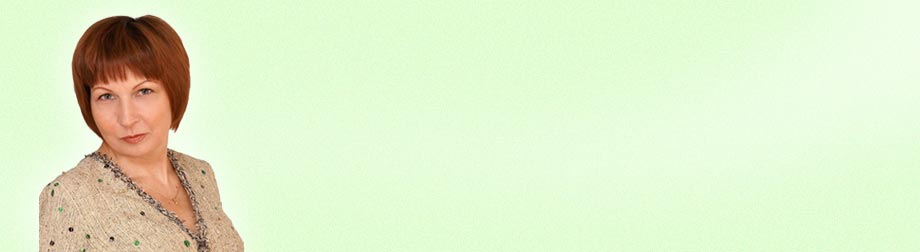
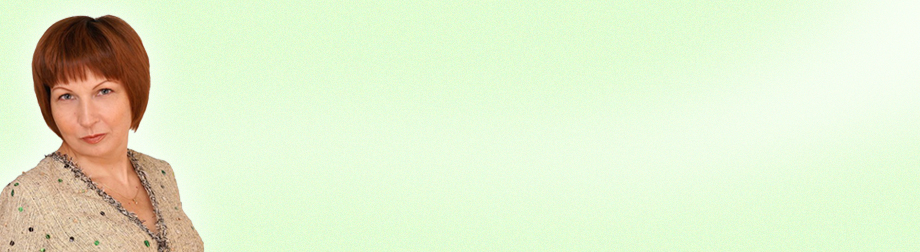
Версия с контактами снизу и переформатированным контентом

Changed region(s): [[0.0, 0.0556, 0.2739, 1.0]]

diff --git a/index.html b/index.html
@@ -7,28 +7,27 @@
     <!--[if IE]>
         <script src="http://html5shiv.googlecode.com/svn/trunk/html5.js"></script>
     <![endif]-->
-    <script type="text/javascript" src="//vk.com/js/api/openapi.js?105"></script>
+    <script type="text/javascript" src="http://vk.com/js/api/openapi.js?105"></script>
 </head>
 <body>
     <div>
         <!--Шапка-->
     <header>
+        <div id="headtext">
+            <p>Ваш персональный страховой агент</p>
+            <p id="name">Иванова Елена</p>
+        </div>
         <div>
             <img src="img/tel2.png">
-            <span>950-30-90</span>
+            <span>+7(821)950 30 90</span>
         </div>
         <div>
             <img src="img/tel1.png">
-            <span>+7(911)767-00-17</span>
+            <span>+7(911)767 00 17</span>
         </div>
         <div>
             <img src="img/mail.png">
             <a href="mailto:ivanova-elev@yandex.ru">ivanova-elev@yandex.ru</a>
-        </div>
-        <img id="reso" src="img/reso_logo.png">
-        <div id="headtext">
-            <p>Ваш личный страховой агент</p>
-            <p id="name">Иванова Елена Евгеньевна</p>
         </div>
     </header>
 
@@ -83,57 +82,63 @@
     </nav>
 
 
-    <div id="main">
+    <main>
         <h2 id="firsth2">Уважаемые дамы и господа!
             <br>
         Добро пожаловать!</h2>
-        <h3>Мы делаем все возможное, чтобы  оформление любого страхового полиса  было для Вас удобным, выгодным, простым и быстрым.        </h3>
-        <h2>На нашем сайте  Вы сможете:</h2>
-        <ul id="firstULmain">
+        <p>Во многих других странах уже давно принято, что у каждой семьи есть свой личный страховой агент, который всегда помогает в решении любых вопросов страхования, а при наступлении страхового случая оказывает сопровождение вплоть до момента выплаты страховой суммы.</p>
+        <p>Я предлагаю Вам помощь и консультацию в сфере страхования и  сделаю все возможное, чтобы  оформление любого страхового полиса  было для Вас удобным, выгодным, простым и быстрым.</p>
+        <h2>На сайте  Вы сможете:</h2>
+        <ul class="ULmain">
             <li>— Заказать расчет стоимости любого интересующего Вас полиса страхования (ОСАГО, КАСКО, Green Card, полиса страхования жизни, медицинского страхования, страхования имущества, и многих других видов страхования)</li>
             <li>— Оставить заявку на оформление страховки  (как новой, так и продление существующего полиса)</li>
             <li>— Заказать бесплатную доставку страхового полиса в любой район города в любое удобное для Вас время.            </li>
         </ul>
-        <h2>Наши преимущества:</h2>
+        <h2>Обращаясь ко мне, Вы получаете следующие преимущества:</h2>
         <ul>
-            <li>Предлагаем все виды страхования:
-                <ul>
-                    <li><span class="spgr">Автострахование:</span> ОСАГО; КАСКО; ДГО (расширение полиса ОСАГО); Green Card (Зеленая карта).</li>
-                    <li><span class="spgr">Cтрахование имущества:</span> домов, дач, квартир, недостроенных объектов.</li>
-                    <li><span class="spgr">Личное страхование:</span> страхование жизни и здоровья; ДМС;  страхование детей и школьников; страхование от несчастных случаев как в течении 24 часов, так и во время нахождения на работе; страхование на время занятий спортом и соревнований.</li>
-                    <li><span class="spgr">Туристические страховки,</span> обязательные для всех граждан, выезжающих за рубеж. В том числе для любителей  любых видов спорта, включая дайвинг и горные лыжи.</li>
-                    <li><span class="spgr">Прочие виды страхования:</span> пенсионное страхование; страхование ответственности, и др.</li>
-                    <li>Мы также предлагаем <span class="spgr">страховые услуги  для бизнеса.</span> В  том числе:
-                        <ul>
-                            <li>Страхование строительно-монтажных работ.</li>
-                            <li>Страхование гражданской ответственности при СМР.</li>
-                            <li>Страхование грузов, строительной техники.</li>
-                            <li>Страхование бизнеса, в том числе, магазинов, офисов, складов.</li>
-                            <li>Страхование имущества юридических лиц.</li>
-                            <li>Страхование железнодорожного транспорта, товаров и оборудования.</li>
-                            <li>Заключение договоров корпоративного ДМС для крупных компаний и для малого бизнеса (с численностью работающих от 2-х человек).</li>
-                        </ul>
-                    </li>
-                </ul>
-            </li>
-            <li>Работаем с юридическими и физическими лицами.</li>
-            <li>Оказываем бесплатные консультационные услуги по условиям страхования.</li>
-            <li>Оформляем новые полисы и делаем продление существующих на выгодных условиях.</li>
-            <li>Осуществляем бесплатную доставку полисов  в пределах Санкт-Петербурга.</li>
-            <li>Соблюдаем высокие стандарты обслуживания.</li>
-            <li>Бесплатно оказываем услуги по консультации и сопровождению клиентов при наступлении страхового случая. Отслеживаем состояние выплатного дела, помогаем собирать документы для страховой компании.</li>
-            <li>Работаем без выходных и праздничных дней.</li>
+            <li>Профессиональные консультации;</li>
+            <li>Разработку индивидуальных и оптимальных условий;</li>
+            <li>Заключение договоров по всем видам страхования:</li>
+            <li>Выезд к Вам в удобное время для оформления документов;</li>
+            <li>Оформление новых полисов и пролонгация существующих на выгодных условиях;</li>
+            <li>Бесплатную доставку полисов  в пределах Санкт-Петербурга;</li>
+            <li>Услуги по консультации и сопровождению клиентов при наступлении страхового случая. Помощь в  сборе и подготовке  документов для страховой компании. Мониторинг состояния выплатного дела;</li>
+            <li>Сотрудничество с юридическими и физическими лицами;</li>
+            <li>Работаю для Вас без выходных и праздничных дней.</li>
         </ul>
 
-    </div>
+        <h2>Виды страхования:</h2>
+        <ul class="ULmain">
+            <li><span>Автострахование:</span> ОСАГО; КАСКО; ДГО (расширение полиса ОСАГО); Green Card (Зеленая карта).</li>
+            <li><span>Cтрахование имущества:</span> домов, дач, квартир, недостроенных объектов.</li>
+            <li><span>Личное страхование:</span> страхование жизни и здоровья; ДМС;  страхование детей и школьников; страхование от несчастных случаев как в течении 24 часов, так и во время нахождения на работе; страхование на время занятий спортом и соревнований.</li>
+            <li><span>Туристические страховки,</span> обязательные для всех граждан, выезжающих за рубеж. В том числе, для любителей  любых видов спорта, включая дайвинг и горные лыжи.</li>
+            <li><span>Прочие виды страхования:</span> пенсионное страхование; страхование ответственности, и др.</li>
+            <li><span>Страховые услуги  для бизнеса.</span> В  том числе:
+                <ul>
+                    <li>Страхование строительно-монтажных работ.</li>
+                    <li>Страхование гражданской ответственности при СМР.</li>
+                    <li>Страхование грузов, строительной техники.</li>
+                    <li>Страхование бизнеса, в том числе, магазинов, офисов, складов.</li>
+                    <li>Страхование имущества юридических лиц.</li>
+                    <li>Страхование железнодорожного транспорта, товаров и оборудования.</li>
+                    <li>Заключение договоров корпоративного ДМС для крупных компаний и для малого бизнеса (с численностью работающих от 2-х человек).</li>
+                </ul>
+            </li>
+        </ul>
+        <p><b>Всегда буду рада Вам помочь!</b></p>
+    </main>
 
     <div id="rightBlocks">
         <div>
-            <a href="https://docs.google.com/forms/d/1-6vJyw_fp1D6xNp-4HPjmz_6jbqlU6ydq6UdMQXeffM/viewform" target="_blank">Заказ страхового полиса</a>
+            <a href="https://docs.google.com/forms/d/1-6vJyw_fp1D6xNp-4HPjmz_6jbqlU6ydq6UdMQXeffM/viewform" target="_blank">Заказать страховой полис</a>
+        </div>
+        <div>
+            <img id="reso" src="img/reso_logo.png">
         </div>
         <div id="vk_groups"></div>
         <script type="text/javascript">
-            VK.Widgets.Group("vk_groups", {mode: 2, width: "274", height: "400", color2: "000000", color3: "036734"}, 60163871);
+            VK.Widgets.Group("vk_groups", {mode: 2, width: "274", height: "600", color2: "000000", color3: "036734"}, 60163871);
         </script>
     </div>
 

diff --git a/style.css b/style.css
@@ -33,30 +33,29 @@ header img {
 }
 header>div {
     display: inline-block;
-    margin-left: 40px;
+    margin-left: 20px;
 }
 header>div>img {
     height: 18px;
     margin-bottom: 4px;
 }
-header>div>a {
+header div>a {
     color: black;
     text-decoration: none;
 }
-#reso {
-    width: 300px;
-    float: right;
-    margin-top: 50px;
-}
+header div>a:hover, header div>span:hover  {color: red;}
 #headtext {
-    width: 400px;
+    width: 740px;
     text-align: center;
-    font-size: 21pt;
+    font-size: 28pt;
     font-weight: bold;
-    margin-top: 55px;
+    margin: 60px 0 60px 40px;
 }
 #headtext>p {margin: 0;}
-#name{font-size: 20pt;}
+#name{
+    font-size: 24pt;
+    font-weight: normal;
+}
 
 
 
@@ -127,21 +126,40 @@ nav ul li:hover > ul{display: block;}
 
 
 
-#main {
+
+
+/*Область основного контента*/
+main {
     float: left;
     width: 64%;
     margin-left: 20px;
 }
-#main>p:first-of-type {
-    margin-top: 0;
+h2 {
+    color: #38761d;
+    font-size: 16pt;
+    font-weight: bolder;
 }
+#firsth2 {text-align: center;margin-top: 0;}
+.ULmain {
+    list-style: none;
+    padding-left: 0;
+}
+.ULmain>li>ul  {list-style: none}
+.ULmain>li span {
+    color: #38761d;
+    text-decoration: underline;
+    font-weight: bold;
+}
+
+
+
+
 
 #rightBlocks {
     float: right;
     width: 30%;
     margin-right: 20px;
 }
-
 #rightBlocks>div {
     border: 1px solid lightgray;
     margin-bottom: 20px;
@@ -155,42 +173,16 @@ nav ul li:hover > ul{display: block;}
     color: #036734;
     font-weight: bold;
     display: block;
-    padding: 30px 10px;
+    padding: 20px 10px;
 }
-#rightBlocks>div:hover {background: #036734;}
+#rightBlocks>div a:hover {background: #036734;}
 #rightBlocks>div a:hover{color: white;}
-
-
-
-
-
-
-
-/*Область основного контента*/
-h2 {
-    color: #38761d;
-    font-size: 16pt;
-    font-weight: bolder;
+#reso {
+    width: 100%;
+    display: block;
 }
-#firsth2 {text-align: center;margin: 0;}
-h3 {
-    font-size: 14pt;
-    text-align: center;
-}
-#firstULmain {
-    list-style: none;
-    padding-left: 0;
-}
-#main>ul>li>ul  {
-    list-style: none;
-    padding-left: 0;
-}
-#main>ul>li>ul span {
-    color: #38761d;
-    text-decoration: underline;
-    font-weight: bold;
-}
-#main>ul>li>ul>li>ul {list-style: none;}
+
+
 
 
 
